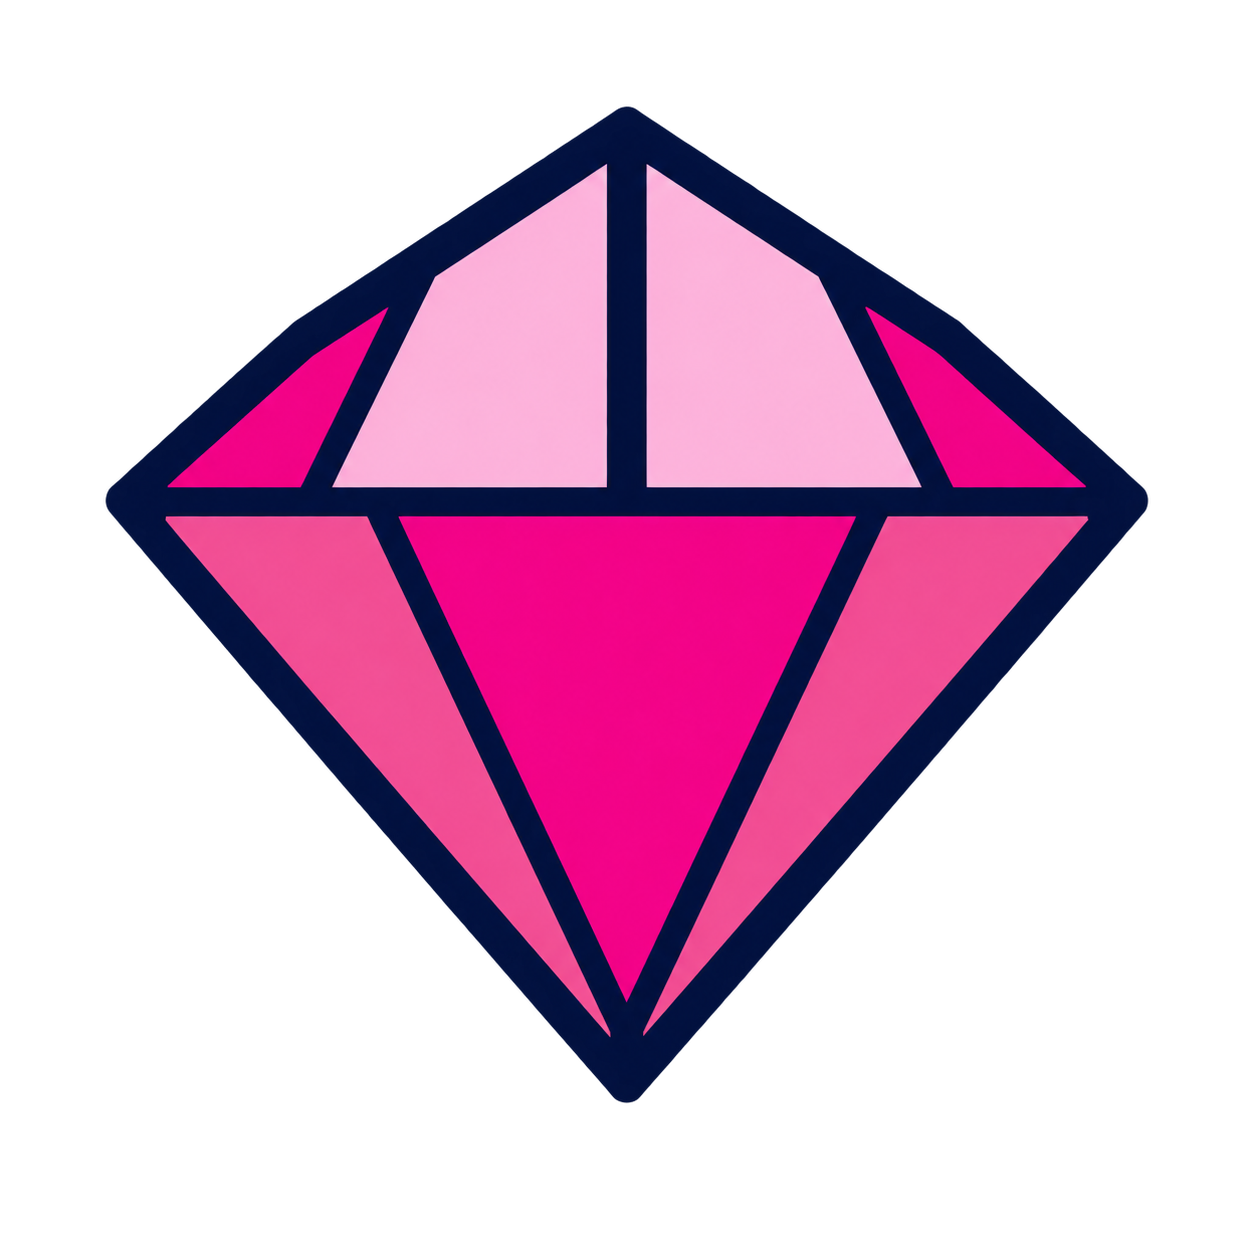
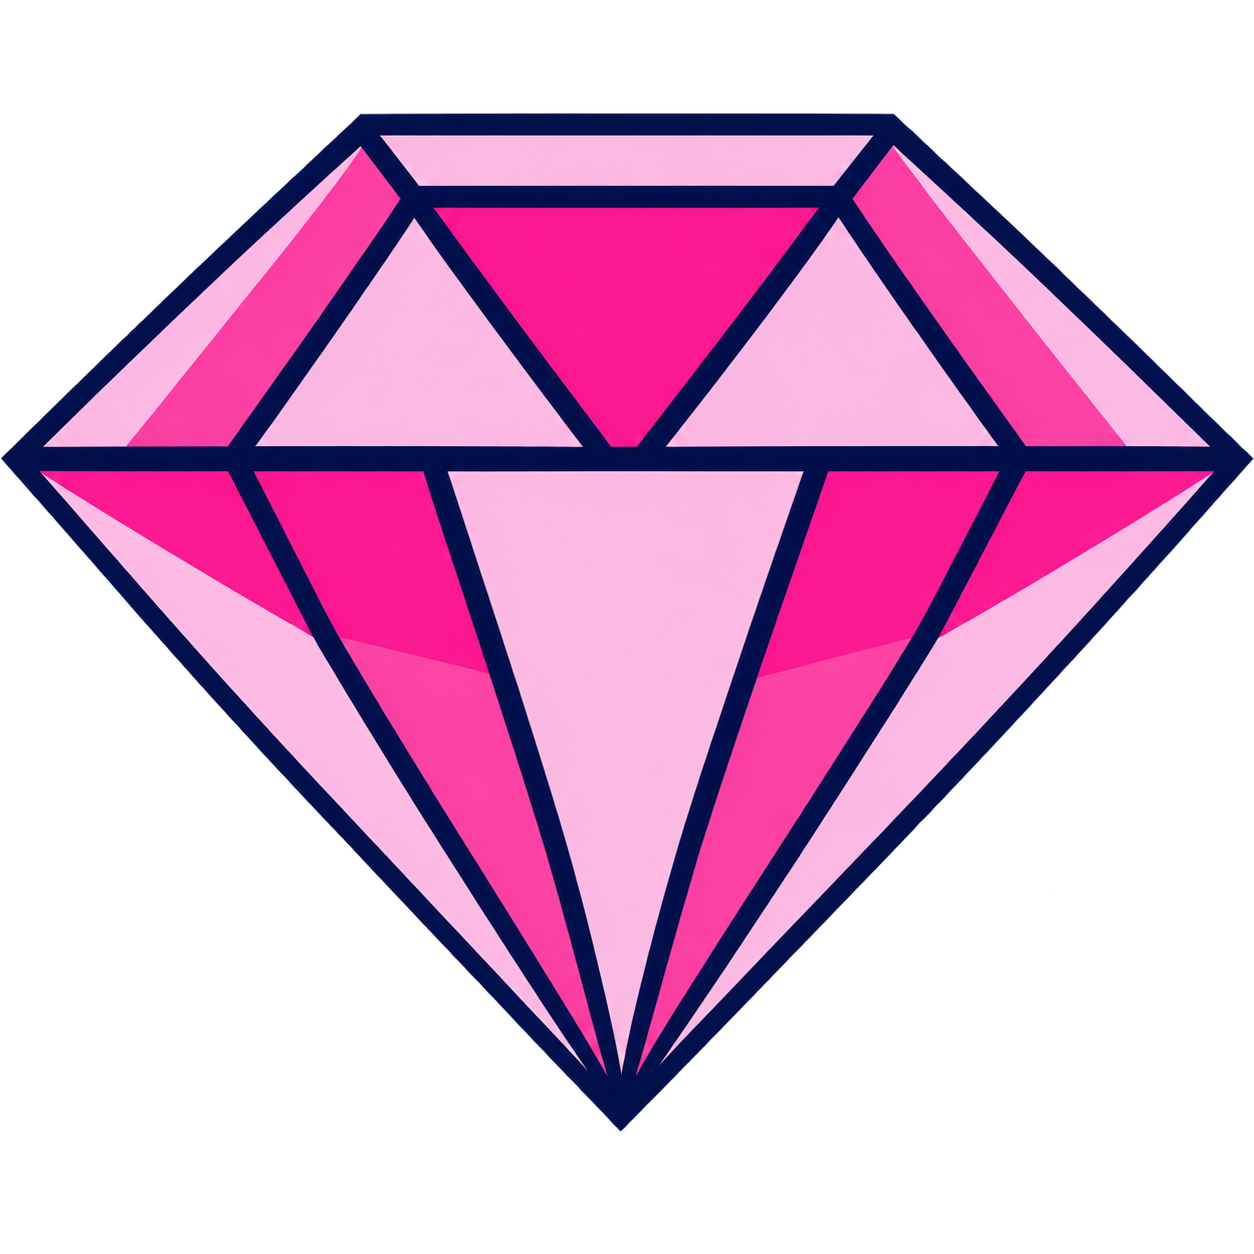
feat: draw tag frames on canvas

diff --git a/src/app/GameApp.js b/src/app/GameApp.js
@@ -7,7 +7,7 @@ import ItemPickupController from '../game/ItemPickupController.js';
 import Camera from '../game/Camera.js';
 import { GAME_AREAS, getPreparationSubareaBounds, WORLD_SIZE } from '../game/GameAreas.js';
 import { HERO_PREPARATION_IMAGE_SIZE, PREPARATION_LAYOUT } from '../game/PreparationLayout.js';
-import { getTagBaseColors, getTagFramePaths, getTagGlyphScales, TAGS } from '../game/TagCatalog.js';
+import { getTagBaseColors, getTagGlyphScales, TAGS } from '../game/TagCatalog.js';
 import HeroItemInteractionController from '../game/HeroItemInteractionController.js';
 import HeroSlotManager from '../game/HeroSlotManager.js';
 import GameClock from '../game/GameClock.js';
@@ -43,7 +43,6 @@ const STATUS_DEFINITIONS = Object.freeze([
   { key: 'stamina', label: 'スタミナ', frameColor: '#3d4d62' },
 ]);
 const TAG_ORDER = Object.freeze(Object.keys(TAGS));
-const TAG_FRAME_PATH = '/assets/tags/frame.png';
 
 function getStaminaGaugeColor(value) {
   if (value <= 2) return '#db5b5b';
@@ -75,18 +74,25 @@ function drawTextAtVisualCenter(context, text, x, centerY) {
   context.fillText(text, x, centerY + (metrics.actualBoundingBoxAscent - metrics.actualBoundingBoxDescent) / 2);
 }
 
-function drawFramedTag(context, assets, tagPath, framePath, baseColor, glyphScale = 1, x, y, size) {
-  if (baseColor) {
-    context.fillStyle = baseColor;
-    context.beginPath();
-    context.arc(x + size / 2, y + size / 2, size * 0.42, 0, Math.PI * 2);
-    context.fill();
-  }
+function drawFramedTag(context, assets, tagPath, baseColor, glyphScale = 1, x, y, size) {
+  const centerX = x + size / 2;
+  const centerY = y + size / 2;
+  context.fillStyle = '#17253d';
+  context.beginPath();
+  context.arc(centerX, centerY, size * 0.5, 0, Math.PI * 2);
+  context.fill();
+  context.fillStyle = baseColor ?? '#e1e8f0';
+  context.beginPath();
+  context.arc(centerX, centerY, size * 0.43, 0, Math.PI * 2);
+  context.fill();
   const icon = assets.load(tagPath);
   const glyphSize = size * glyphScale;
   if (icon.complete && icon.naturalWidth > 0) context.drawImage(icon, x + (size - glyphSize) / 2, y + (size - glyphSize) / 2, glyphSize, glyphSize);
-  const frame = assets.load(framePath ?? TAG_FRAME_PATH);
-  if (frame.complete && frame.naturalWidth > 0) context.drawImage(frame, x, y, size, size);
+  context.lineWidth = Math.max(1, size * 0.035);
+  context.strokeStyle = 'rgba(255, 255, 255, 0.78)';
+  context.beginPath();
+  context.arc(centerX, centerY, size * 0.43 - context.lineWidth / 2, 0, Math.PI * 2);
+  context.stroke();
 }
 
 function drawTagList(context, assets, hero, x, y) {
@@ -105,7 +111,7 @@ function drawTagList(context, assets, hero, x, y) {
     context.roundRect(badgeX, badgeY, 20, PREPARATION_LAYOUT.tagBadgeHeight, 6);
     context.fill();
     context.stroke();
-    drawFramedTag(context, assets, `/assets/tags/${tag}.png`, getTagFramePaths([tag])[0], getTagBaseColors([tag])[0], getTagGlyphScales([tag])[0], badgeCenterX - PREPARATION_LAYOUT.tagIconSize / 2, badgeY + 3, PREPARATION_LAYOUT.tagIconSize);
+    drawFramedTag(context, assets, `/assets/tags/${tag}.png`, getTagBaseColors([tag])[0], getTagGlyphScales([tag])[0], badgeCenterX - PREPARATION_LAYOUT.tagIconSize / 2, badgeY + 3, PREPARATION_LAYOUT.tagIconSize);
     context.fillStyle = '#24334d';
     drawTextAtVisualCenter(context, String(count), badgeCenterX, badgeY + 31);
   });
@@ -133,7 +139,7 @@ function drawItemSlot(context, assets, item, slotX, slotY) {
   const tagStartX = slotX + (slotSize - tagWidth) / 2;
   item.chip.tagPaths.forEach((tagPath, tagIndex) => {
     const tagX = tagStartX + tagIndex * (PREPARATION_LAYOUT.equipmentTagIconSize + PREPARATION_LAYOUT.equipmentTagGap);
-    drawFramedTag(context, assets, tagPath, item.chip.tagFramePaths[tagIndex], item.chip.tagBaseColors[tagIndex], item.chip.tagGlyphScales[tagIndex], tagX, slotY + 2, PREPARATION_LAYOUT.equipmentTagIconSize);
+    drawFramedTag(context, assets, tagPath, item.chip.tagBaseColors[tagIndex], item.chip.tagGlyphScales[tagIndex], tagX, slotY + 2, PREPARATION_LAYOUT.equipmentTagIconSize);
   });
 }
 
@@ -171,7 +177,7 @@ function drawShopPanel(context, assets, shop, bag, transaction) {
     context.textAlign = 'center';
     context.textBaseline = 'middle';
     context.fillText(label, panelCenterX, y + 26);
-    drawFramedTag(context, assets, `/assets/tags/${tag}.png`, getTagFramePaths([tag])[0], getTagBaseColors([tag])[0], getTagGlyphScales([tag])[0], panelCenterX - 24, y + 44, 48);
+    drawFramedTag(context, assets, `/assets/tags/${tag}.png`, getTagBaseColors([tag])[0], getTagGlyphScales([tag])[0], panelCenterX - 24, y + 44, 48);
   };
   drawTrend('SALE FOR', shop.saleTag, layout.saleBoards.sale);
   drawTrend('NEXT', shop.nextTag, layout.saleBoards.next);

diff --git a/src/game/ItemFactory.js b/src/game/ItemFactory.js
@@ -1,6 +1,6 @@
 import Chip from '../chips/Chip.js';
 import Item from './Item.js';
-import { TAGS, getTagBaseColors, getTagFramePaths, getTagGlyphScales, getTagPaths, getTagPrice, getTagWeight } from './TagCatalog.js';
+import { TAGS, getTagBaseColors, getTagGlyphScales, getTagPaths, getTagPrice, getTagWeight } from './TagCatalog.js';
 import { GAME_AREAS } from './GameAreas.js';
 import { AREA_THEME } from './AreaTheme.js';
 
@@ -56,7 +56,7 @@ export default class ItemFactory {
   }
 
   createWeapon({ weapon, tags, x, y }) {
-    const chip = new Chip({ id: 0, type: 'item', x, y, weight: Math.max(1, getTagWeight(tags)), centerPath: `/assets/items/hand-${weapon}.png`, tagPaths: getTagPaths(tags), tagFramePaths: getTagFramePaths(tags), tagBaseColors: getTagBaseColors(tags), tagGlyphScales: getTagGlyphScales(tags), bounds: GAME_AREAS.warehouse });
+    const chip = new Chip({ id: 0, type: 'item', x, y, weight: Math.max(1, getTagWeight(tags)), centerPath: `/assets/items/hand-${weapon}.png`, tagPaths: getTagPaths(tags), tagBaseColors: getTagBaseColors(tags), tagGlyphScales: getTagGlyphScales(tags), bounds: GAME_AREAS.warehouse });
     const item = new Item({ type: weapon, category: 'weapon', tags, chip, equipmentAssets: assetPaths(tags) });
     item.price = getTagPrice(tags);
     item.fixedStatusTag = WEAPONS[weapon];
@@ -65,7 +65,7 @@ export default class ItemFactory {
 
   createDestination({ destination, x, y }) {
     const tags = [];
-    const chip = new Chip({ id: 0, type: 'item', x, y, weight: 1, centerPath: `/assets/items/hand-${destination}.png`, tagPaths: [], tagFramePaths: [], tagBaseColors: [], tagGlyphScales: [], bounds: GAME_AREAS.warehouse, fillColor: AREA_THEME[DESTINATIONS[destination]].chipFill });
+    const chip = new Chip({ id: 0, type: 'item', x, y, weight: 1, centerPath: `/assets/items/hand-${destination}.png`, tagPaths: [], tagBaseColors: [], tagGlyphScales: [], bounds: GAME_AREAS.warehouse, fillColor: AREA_THEME[DESTINATIONS[destination]].chipFill });
     const item = new Item({ type: destination, category: 'destination', tags, chip, equipmentAssets: assetPaths(tags) });
     item.price = 1;
     item.destination = DESTINATIONS[destination];
@@ -84,7 +84,7 @@ export default class ItemFactory {
 
   createBodyItem({ part, tags = [], x, y, random = Math.random }) {
     const imageNumber = tags.length === 0 ? 1 + Math.floor(random() * 5) : Number(assetPaths(tags)[part].match(/-(\d+)\.png$/)[1]);
-    const chip = new Chip({ id: 0, type: 'item', x, y, weight: Math.max(1, getTagWeight(tags)), centerPath: `/assets/items/${part}-${imageNumber}.png`, tagPaths: getTagPaths(tags), tagFramePaths: getTagFramePaths(tags), tagBaseColors: getTagBaseColors(tags), tagGlyphScales: getTagGlyphScales(tags), bounds: GAME_AREAS.warehouse });
+    const chip = new Chip({ id: 0, type: 'item', x, y, weight: Math.max(1, getTagWeight(tags)), centerPath: `/assets/items/${part}-${imageNumber}.png`, tagPaths: getTagPaths(tags), tagBaseColors: getTagBaseColors(tags), tagGlyphScales: getTagGlyphScales(tags), bounds: GAME_AREAS.warehouse });
     const item = new Item({ type: `${part}-${imageNumber}`, category: part, tags, chip, equipmentAssets: assetPaths(tags) });
     item.price = getTagPrice(tags);
     return item;

diff --git a/src/chips/ChipRenderer.js b/src/chips/ChipRenderer.js
@@ -1,22 +1,27 @@
 const DEFAULT_TAG_SLOT_COUNT = 8;
 export const CENTER_IMAGE_SCALE = 0.85;
 const CHIP_RIM_WIDTH_RATIO = 0.065;
-const TAG_FRAME_PATH = '/assets/tags/frame.png';
 
 function drawImageCover(context, image, x, y, size) {
   if (!image.complete || image.naturalWidth === 0) return;
   context.drawImage(image, x - size / 2, y - size / 2, size, size);
 }
 
-function drawFramedTag(context, assets, path, framePath, baseColor, glyphScale = 1, x, y, size) {
-  if (baseColor) {
-    context.fillStyle = baseColor;
-    context.beginPath();
-    context.arc(x, y, size * 0.42, 0, Math.PI * 2);
-    context.fill();
-  }
+function drawFramedTag(context, assets, path, baseColor, glyphScale = 1, x, y, size) {
+  context.fillStyle = '#17253d';
+  context.beginPath();
+  context.arc(x, y, size * 0.5, 0, Math.PI * 2);
+  context.fill();
+  context.fillStyle = baseColor ?? '#e1e8f0';
+  context.beginPath();
+  context.arc(x, y, size * 0.43, 0, Math.PI * 2);
+  context.fill();
   drawImageCover(context, assets.load(path), x, y, size * glyphScale);
-  drawImageCover(context, assets.load(framePath ?? TAG_FRAME_PATH), x, y, size);
+  context.lineWidth = Math.max(1, size * 0.035);
+  context.strokeStyle = 'rgba(255, 255, 255, 0.78)';
+  context.beginPath();
+  context.arc(x, y, size * 0.43 - context.lineWidth / 2, 0, Math.PI * 2);
+  context.stroke();
 }
 
 export function createTagAngles(count, tagSlotCount) {
@@ -164,7 +169,7 @@ export default class ChipRenderer {
       const y = Math.sin(angle) * tagRadius;
       context.save();
       context.translate(x, y);
-      drawFramedTag(context, this.assets, path, chip.tagFramePaths[index], chip.tagBaseColors[index], chip.tagGlyphScales[index], 0, 0, iconSize);
+      drawFramedTag(context, this.assets, path, chip.tagBaseColors[index], chip.tagGlyphScales[index], 0, 0, iconSize);
       context.restore();
     });
   }

diff --git a/src/game/BattleSystem.js b/src/game/BattleSystem.js
@@ -1,5 +1,5 @@
 import { GAME_AREAS } from './GameAreas.js';
-import { getTagBaseColors, getTagFramePaths, getTagGlyphScales, getTagPaths, getTagPrice, getTagWeight } from './TagCatalog.js';
+import { getTagBaseColors, getTagGlyphScales, getTagPaths, getTagPrice, getTagWeight } from './TagCatalog.js';
 import { createTrendEquipmentSet } from './TrendEquipmentGenerator.js';
 
 const TICKS_PER_SECOND = 60;
@@ -180,7 +180,7 @@ export default class BattleSystem {
   applyOrb(actor, target, coefficient) {
     if (this.random() >= (actor.getLuckDegree() + .3) * coefficient) return;
     const items = (isHero(target) ? Object.values(target.equipment) : target.equipment).filter((item) => item && item.tags.length < 3); const item = items[Math.floor(this.random() * items.length)];
-    if (!item?.addTag('gem')) return; item.chip.weight = getTagWeight(item.tags); item.chip.tagPaths = getTagPaths(item.tags); item.chip.tagFramePaths = getTagFramePaths(item.tags); item.chip.tagBaseColors = getTagBaseColors(item.tags); item.chip.tagGlyphScales = getTagGlyphScales(item.tags); item.price = getTagPrice(item.tags); target.refreshDerivedValues?.();
+    if (!item?.addTag('gem')) return; item.chip.weight = getTagWeight(item.tags); item.chip.tagPaths = getTagPaths(item.tags); item.chip.tagBaseColors = getTagBaseColors(item.tags); item.chip.tagGlyphScales = getTagGlyphScales(item.tags); item.price = getTagPrice(item.tags); target.refreshDerivedValues?.();
   }
   getTheftCandidates(target) {
     if (!isHero(target)) return target.equipment;

diff --git a/src/game/HeroFactory.js b/src/game/HeroFactory.js
@@ -1,6 +1,6 @@
 import Chip from '../chips/Chip.js';
 import Hero from './Hero.js';
-import { getTagBaseColors, getTagFramePaths, getTagGlyphScales, getTagPaths, getTagWeight } from './TagCatalog.js';
+import { getTagBaseColors, getTagGlyphScales, getTagPaths, getTagWeight } from './TagCatalog.js';
 
 const PROFESSIONS = Object.freeze({
   swordfighter: { asset: 'swoardfighter', tag: 'valor', profession: '剣士', name: { en: 'Avery', ja: 'アヴェリー' } },
@@ -23,7 +23,7 @@ export default class HeroFactory {
   create({ profession, x, y, maximums, bounds = null, stamina = 0 }) {
     const definition = PROFESSIONS[profession];
     const tags = [definition.tag, definition.tag];
-    const chip = new Chip({ id: 0, type: 'hero', x, y, weight: getTagWeight(tags), centerPath: `/assets/heroes/${definition.asset}.png`, tagPaths: getTagPaths(tags), tagFramePaths: getTagFramePaths(tags), tagBaseColors: getTagBaseColors(tags), tagGlyphScales: getTagGlyphScales(tags), bounds });
+    const chip = new Chip({ id: 0, type: 'hero', x, y, weight: getTagWeight(tags), centerPath: `/assets/heroes/${definition.asset}.png`, tagPaths: getTagPaths(tags), tagBaseColors: getTagBaseColors(tags), tagGlyphScales: getTagGlyphScales(tags), bounds });
     return new Hero({ profession: definition.profession, name: definition.name, tags, chip, maximums, stamina });
   }
 }

diff --git a/src/simulation/BattleSimulationRunner.js b/src/simulation/BattleSimulationRunner.js
@@ -3,7 +3,7 @@ import BattleSystem from '../game/BattleSystem.js';
 import EnemyFactory from '../game/EnemyFactory.js';
 import HeroFactory from '../game/HeroFactory.js';
 import ItemFactory from '../game/ItemFactory.js';
-import { getTagBaseColors, getTagFramePaths, getTagGlyphScales, getTagPaths, getTagWeight } from '../game/TagCatalog.js';
+import { getTagBaseColors, getTagGlyphScales, getTagPaths, getTagWeight } from '../game/TagCatalog.js';
 
 const DEFAULT_MAXIMUMS = Object.freeze({ power: 3, magic: 3, speed: 3, negotiation: 3, luck: 3, stamina: 3 });
 const DEFAULT_TICKS = 10000;
@@ -42,7 +42,6 @@ function createWeaponItems(entity, itemFactory) {
 function refreshEntity(entity) {
   entity.chip.weight = getTagWeight(entity.getTags());
   entity.chip.tagPaths = getTagPaths(entity.tags);
-  entity.chip.tagFramePaths = getTagFramePaths(entity.tags);
   entity.chip.tagBaseColors = getTagBaseColors(entity.tags);
   entity.chip.tagGlyphScales = getTagGlyphScales(entity.tags);
   entity.refreshDerivedValues?.();

diff --git a/src/game/EnemyFactory.js b/src/game/EnemyFactory.js
@@ -5,7 +5,7 @@ import { BATTLE_ENEMY_AREA_HEIGHT, ENEMY_CHIP_DIAMETER, HERO_SLOT_SIZE } from '.
 import { getEnemyDefinition } from './EnemyCatalog.js';
 import Enemy from './Enemy.js';
 import ItemFactory from './ItemFactory.js';
-import { getTagBaseColors, getTagFramePaths, getTagGlyphScales, getTagPaths, getTagWeight } from './TagCatalog.js';
+import { getTagBaseColors, getTagGlyphScales, getTagPaths, getTagWeight } from './TagCatalog.js';
 import { EQUIPMENT_PARTS, createTrendEquipmentItem, createTrendProductTags, distributeTagCounts } from './TrendEquipmentGenerator.js';
 
 export const ENEMY_CONTRIBUTION_POINTS = Object.freeze({ regular: 10, midBoss: 50, boss: 250 });
@@ -41,7 +41,6 @@ export default class EnemyFactory {
       weight: getTagWeight(tags),
       centerPath: definition.assetPath,
       tagPaths: getTagPaths(tags),
-      tagFramePaths: getTagFramePaths(tags),
       tagBaseColors: getTagBaseColors(tags),
       tagGlyphScales: getTagGlyphScales(tags),
       bounds: slot.bounds,

diff --git a/src/game/TagCatalog.js b/src/game/TagCatalog.js
@@ -26,15 +26,6 @@ export const STATUS_TAGS = Object.freeze({
   luck: Object.freeze(['blessing', 'fortune']),
 });
 
-const TAG_FRAME_PATHS = Object.freeze({
-  power: '/assets/tags/frames/power.png',
-  magic: '/assets/tags/frames/magic.png',
-  speed: '/assets/tags/frames/speed.png',
-  negotiation: '/assets/tags/frames/negotiation.png',
-  luck: '/assets/tags/frames/luck.png',
-  attribute: '/assets/tags/frames/attribute.png',
-});
-
 const TAG_BASE_COLORS = Object.freeze({
   power: '#8d5b3d',
   magic: '#66429b',
@@ -62,14 +53,6 @@ export function getTagPrice(tags) {
 
 export function getTagPaths(tags) {
   return tags.map((tag) => `/assets/tags/${tag}.png`);
-}
-
-export function getTagFramePaths(tags) {
-  return tags.map((tag) => {
-    const definition = TAGS[tag];
-    const frameKey = definition.group === 'attribute' ? 'attribute' : definition.stat;
-    return TAG_FRAME_PATHS[frameKey];
-  });
 }
 
 export function getTagBaseColors(tags) {

diff --git a/src/chips/Chip.js b/src/chips/Chip.js
@@ -1,7 +1,7 @@
 export const CHIP_RADIUS = Object.freeze({ hero: 96, item: 37.5 });
 
 export default class Chip {
-  constructor({ id, type, x, y, weight, centerPath, tagPaths, tagFramePaths = [], tagBaseColors = [], tagGlyphScales = [], radius = null, bounds = null, fillColor = '#ffffff', borderColor = '#d7dce4' }) {
+  constructor({ id, type, x, y, weight, centerPath, tagPaths, tagBaseColors = [], tagGlyphScales = [], radius = null, bounds = null, fillColor = '#ffffff', borderColor = '#d7dce4' }) {
     this.id = id;
     this.type = type;
     this.x = x;
@@ -11,7 +11,6 @@ export default class Chip {
     this.weight = weight;
     this.centerPath = centerPath;
     this.tagPaths = tagPaths;
-    this.tagFramePaths = tagFramePaths;
     this.tagBaseColors = tagBaseColors;
     this.tagGlyphScales = tagGlyphScales;
     this.bounds = bounds;

diff --git a/src/game/Enemy.js b/src/game/Enemy.js
@@ -1,4 +1,4 @@
-import { getStatusValue, getTagBaseColors, getTagFramePaths, getTagGlyphScales, getTagPaths, getTagWeight } from './TagCatalog.js';
+import { getStatusValue, getTagBaseColors, getTagGlyphScales, getTagPaths, getTagWeight } from './TagCatalog.js';
 import { getLuckDegree } from './Luck.js';
 
 const DEFAULT_MAXIMUMS = Object.freeze({ power: 7, magic: 7, speed: 7, negotiation: 7, luck: 7 });
@@ -74,7 +74,6 @@ export default class Enemy {
     const tags = this.getTags();
     this.chip.weight = getTagWeight(tags);
     this.chip.tagPaths = getTagPaths(this.tags);
-    this.chip.tagFramePaths = getTagFramePaths(this.tags);
     this.chip.tagBaseColors = getTagBaseColors(this.tags);
     this.chip.tagGlyphScales = getTagGlyphScales(this.tags);
     this.chip.attributeValues = this.attributes;

diff --git a/src/chips/ChipBoard.js b/src/chips/ChipBoard.js
@@ -34,8 +34,8 @@ export default class ChipBoard {
     this.height = height;
   }
 
-  add({ type, x, y, weight, centerPath, tagPaths, tagFramePaths = [], tagBaseColors = [], tagGlyphScales = [] }) {
-    const chip = new Chip({ id: this.nextId++, type, x, y, weight, centerPath, tagPaths, tagFramePaths, tagBaseColors, tagGlyphScales });
+  add({ type, x, y, weight, centerPath, tagPaths, tagBaseColors = [], tagGlyphScales = [] }) {
+    const chip = new Chip({ id: this.nextId++, type, x, y, weight, centerPath, tagPaths, tagBaseColors, tagGlyphScales });
     this.chips.push(chip);
     return chip;
   }

diff --git a/tests/implementation/Factories.test.js b/tests/implementation/Factories.test.js
@@ -84,7 +84,6 @@ test('item factory calculates tag weight, price, and equipment assets', () => {
   assert.equal(item.price, 8);
   assert.equal(item.fixedStatusTag, 'valor');
   assert.equal(item.equipmentAssets.head, '/assets/items/head-1.png');
-  assert.deepEqual(item.chip.tagFramePaths, ['/assets/tags/frames/power.png', '/assets/tags/frames/attribute.png']);
   assert.deepEqual(item.chip.tagBaseColors, ['#8d5b3d', '#e1e8f0']);
   assert.deepEqual(item.chip.tagGlyphScales, [0.72, 0.72]);
 });
